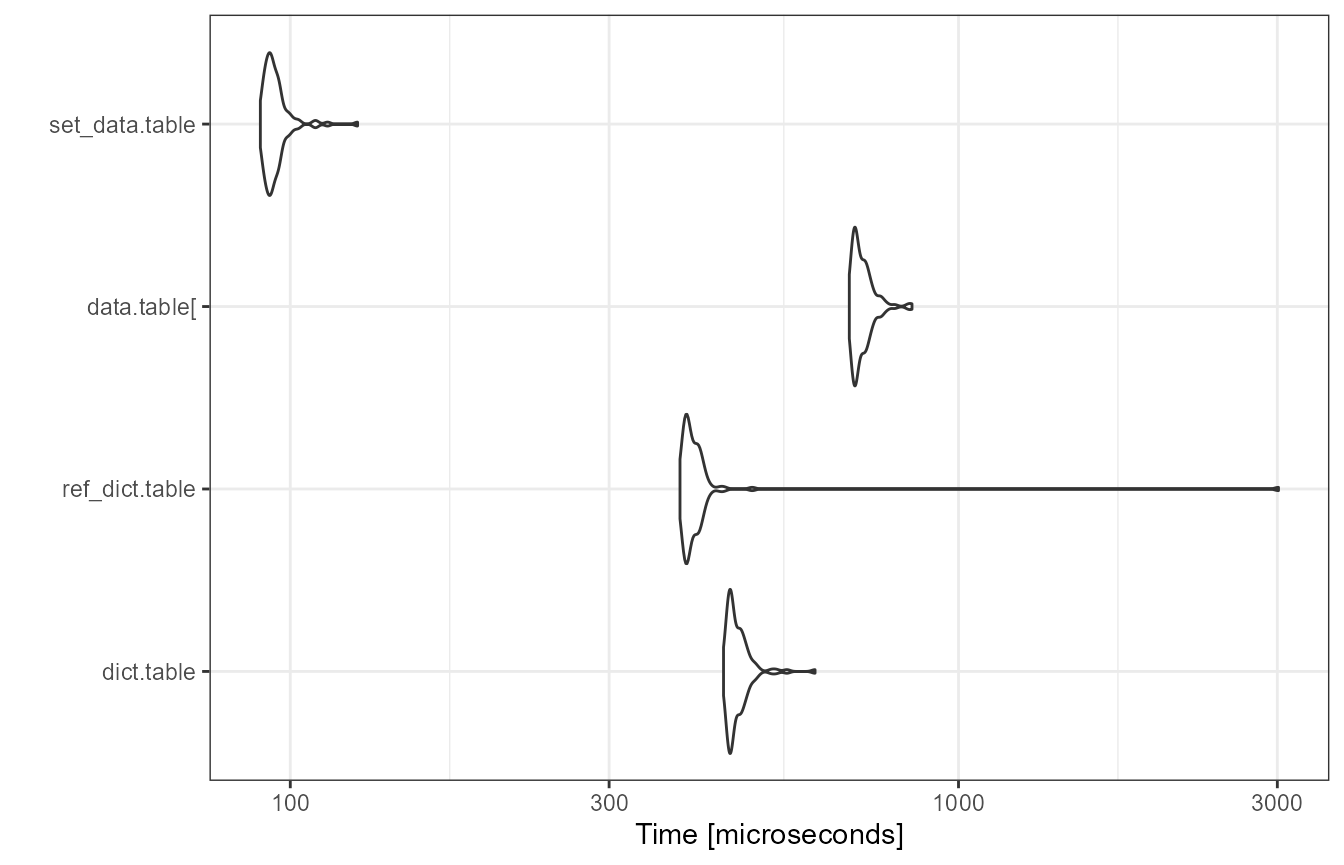
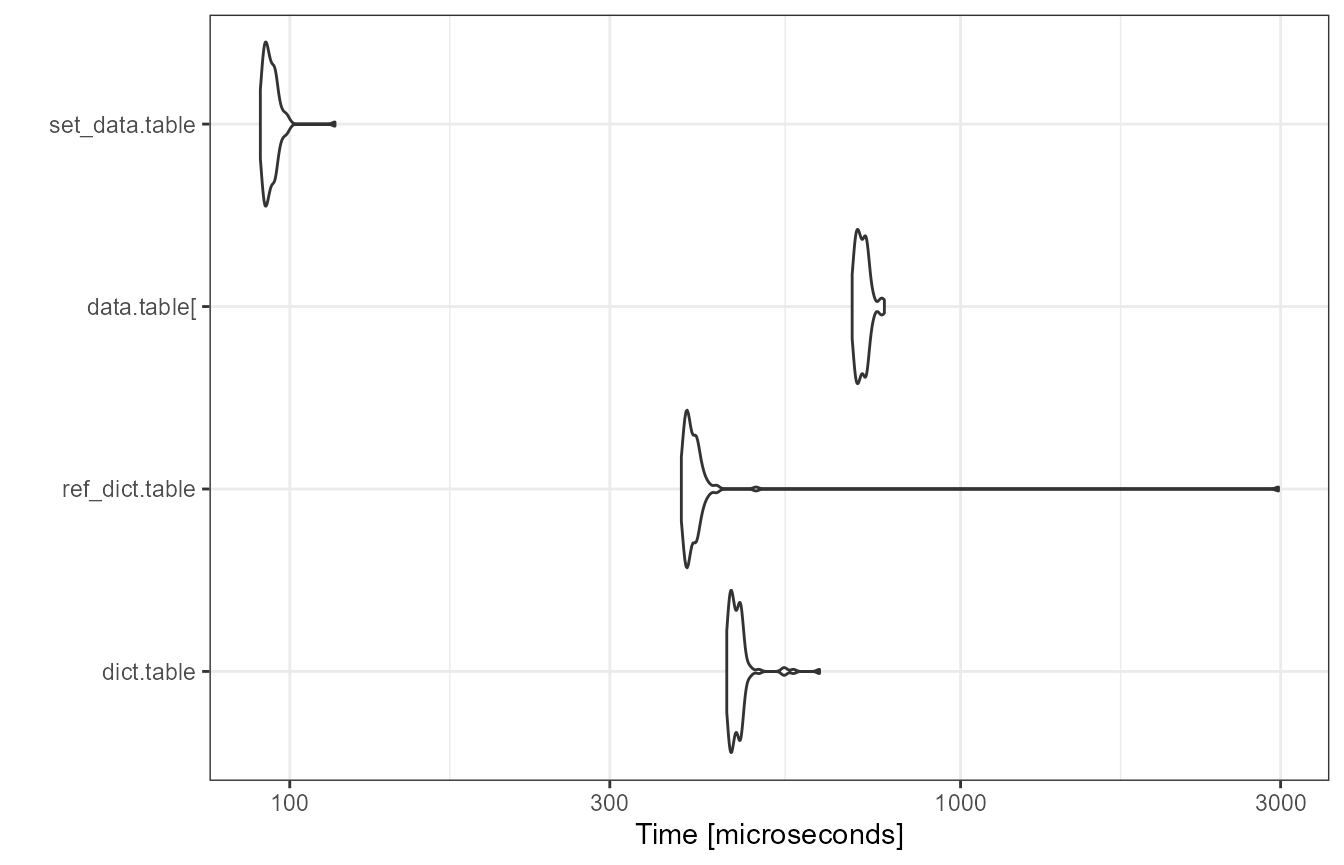
Minor revise article and cache benchmark results

diff --git a/docs/articles/manage-data-columns.html b/docs/articles/manage-data-columns.html
@@ -113,9 +113,13 @@
 <h2 class="hasAnchor">
 <a href="#motivation" class="anchor"></a>Motivation</h2>
 <p>The <a href="https://CRAN.R-project.org/package=dplyr">dplyr</a> functions <code>select</code> and <code>mutate</code> are widely used to manage data <code>data.frame</code> (or <code>tibble</code>) columns. They cover a wide range of use cases and are applied in quick data exploration as well as in data analysis pipelines. On the other hand, when implementing critical code or building R packages, developers may revert to base R to minimize errors and code dependencies. At least, both <code>mutate</code> and <code>select</code> may require additional checking, for example, to catch column name clashes.</p>
-<p>The <a href="https://cran.r-project.org/web/packages/container/index.html">container</a> package in parts was developed to close this gap. With version 1.0.0, it provides <code>dict.table</code>, which can be considered a <a href="https://CRAN.R-project.org/package=data.table">data.table</a> with an extended set of functions to add, extract, remove and replace data columns with minimal required additional checking resulting in very lean code.</p>
+<p>The <a href="https://cran.r-project.org/web/packages/container/index.html">container</a> package in parts was developed to close this gap. With version 1.0.0, it provides <code>dict.table</code>, which can be considered a <a href="https://CRAN.R-project.org/package=data.table">data.table</a> with an extended set of functions to add, extract, remove and replace data columns with minimal required additional checking, hopefully resulting in lean and robust code.</p>
 <p>This vignette compares basic <code>dplyr</code> and <code>dict.table</code> data column operations and at the end shows that both frameworks can be easily combined.</p>
-<p>To keep matters simple, we use a tiny data table.</p>
+</div>
+<div id="column-operations" class="section level2">
+<h2 class="hasAnchor">
+<a href="#column-operations" class="anchor"></a>Column operations</h2>
+<p>To keep matters simple, we use a tiny data set.</p>
 <div class="sourceCode" id="cb1"><pre class="downlit sourceCode r">
 <code class="sourceCode R"><span class="kw"><a href="https://rdrr.io/r/base/library.html">library</a></span><span class="op">(</span><span class="va"><a href="https://github.com/rpahl/container">container</a></span><span class="op">)</span>
 <span class="kw"><a href="https://rdrr.io/r/base/library.html">library</a></span><span class="op">(</span><span class="va"><a href="https://dplyr.tidyverse.org">dplyr</a></span><span class="op">)</span>
@@ -126,10 +130,6 @@
 <span class="co">#      x y</span>
 <span class="co"># 1: 0.2 a</span>
 <span class="co"># 2: 0.5 b</span></code></pre></div>
-</div>
-<div id="column-operations" class="section level2">
-<h2 class="hasAnchor">
-<a href="#column-operations" class="anchor"></a>Column operations</h2>
 <div id="add" class="section level3">
 <h3 class="hasAnchor">
 <a href="#add" class="anchor"></a>Add</h3>
@@ -326,7 +326,7 @@
 <span class="op">)</span>
 <span class="fu"><a href="https://ggplot2.tidyverse.org/reference/autoplot.html">autoplot</a></span><span class="op">(</span><span class="va">bm</span><span class="op">)</span> <span class="op">+</span> <span class="fu"><a href="https://ggplot2.tidyverse.org/reference/ggtheme.html">theme_bw</a></span><span class="op">(</span><span class="op">)</span></code></pre></div>
 <p><img src="manage-data-columns_files/figure-html/benchmark2-1.png" width="672"></p>
-<p>Apparently, the mutate and select operations are the slowest in comparison, which for the most part should be a result of these functions providing non-standard evaluation (NSE) and generally a wide range of ways to specify the desired operation. It’s not surprising that such flexibility comes at a cost.</p>
+<p>Apparently, the mutate and select operations are the slowest in comparison, which for the most part should be a result of these functions providing non-standard evaluation (NSE) and generally a wide range of ways to specify the desired operation. Unsurprisingly such flexibility comes at a cost.</p>
 <p>Since the <a href="https://CRAN.R-project.org/package=data.table">data.table</a> expressions also involve NSE terms and some overhead, in this benchmark the <code>dict.table</code> performs even best. Having said that, of course, the <a href="https://CRAN.R-project.org/package=data.table">data.table</a> code can be further improved by avoiding the overhead and instead use reference semantics via the <code>data.table</code> built-in <code>set</code> function.</p>
 <div class="sourceCode" id="cb18"><pre class="downlit sourceCode r">
 <code class="sourceCode R"><span class="va">data</span> <span class="op">=</span> <span class="va">cars</span>
@@ -359,7 +359,7 @@
 
 <span class="fu"><a href="https://ggplot2.tidyverse.org/reference/autoplot.html">autoplot</a></span><span class="op">(</span><span class="va">bm</span><span class="op">)</span> <span class="op">+</span> <span class="fu"><a href="https://ggplot2.tidyverse.org/reference/ggtheme.html">theme_bw</a></span><span class="op">(</span><span class="op">)</span></code></pre></div>
 <p><img src="manage-data-columns_files/figure-html/benchmark3-1.png" width="672"></p>
-<p>This puts things back into perspective. We also provided a <code>dict.table</code> version using reference semantic, which is also <code>built-in</code> and results in a slight speed improvement over the standard version. As a result, <code>data.table</code> remains the way to go when speed is key, but note that again there is no checking of missing or existing data columns, as implicitly provided by the <code>dict.table</code> operations.</p>
+<p>This puts things back into perspective. We also provided a <code>dict.table</code> version using reference semantic, which is also <code>built-in</code> and results in a slight speed improvement over the standard version. As a result, <code>data.table</code> remains the way to go when speed is key.</p>
 </div>
 <div id="combine-dplyr-and-dict-table" class="section level2">
 <h2 class="hasAnchor">
@@ -375,7 +375,7 @@
 <div id="summary" class="section level2">
 <h2 class="hasAnchor">
 <a href="#summary" class="anchor"></a>Summary</h2>
-<p>In critical code, it is usually of high priority to avoid unintended data column operations. For this usually additional code is required to check for the existence or absence of columns. The <code>dict.table</code> framework provides a set of column operations with built-in checking, thereby yielding safer and less redundant code and ultimately freeing the developer from writing these annoying checks over and over again.</p>
+<p>In critical code, it is usually of high priority to avoid unintended data column operations. For this, usually additional code is required to check for the existence or absence of columns. The <code>dict.table</code> framework provides a set of column operations with built-in checking, thereby yielding safer and leaner code out of the box and ultimately freeing the developer from writing some annoying checks over and over again.</p>
 </div>
   </div>
 
